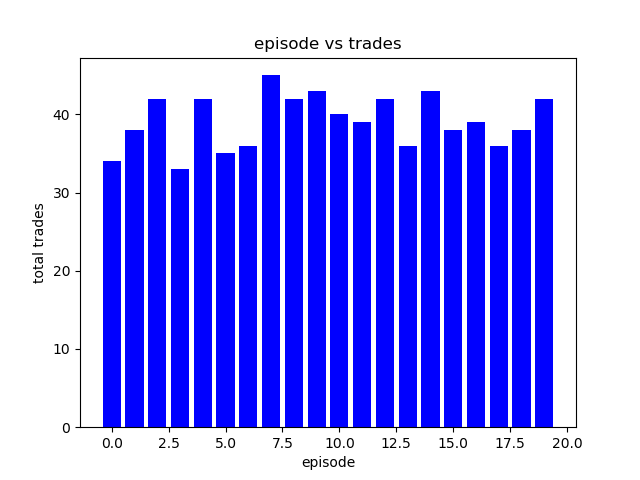
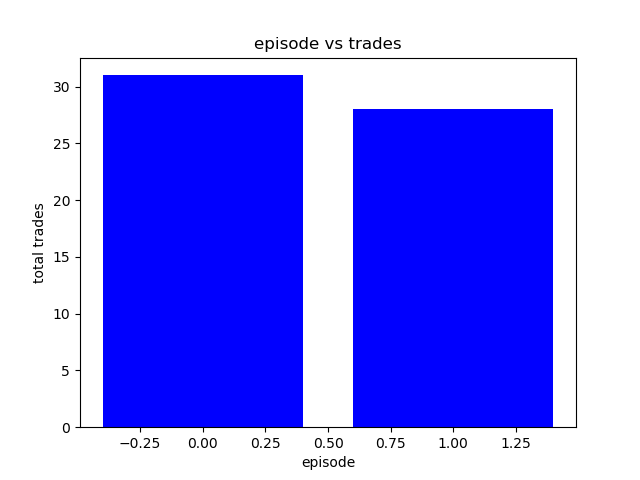
fixed test_gen file to match Close column name convention

diff --git a/rl_dqn.py b/rl_dqn.py
@@ -50,12 +50,12 @@ if __name__ == "__main__":
 
     import argparse
     parser = argparse.ArgumentParser()
-    parser.add_argument('--stock_name', '-s', type=str, default='^GSPC_2011')  # ^GSPC_2001_2010  ^GSPC_1970_2018  ^GSPC_2011
+    parser.add_argument('--stock_name', '-s', type=str, default='test_sinus')  # ^GSPC_2001_2010  ^GSPC_1970_2018  ^GSPC_2011
     parser.add_argument('--num_features', '-nf', type=int, default=20)  # (int) > 0
     parser.add_argument('--num_neurons', '-nn', type=int, default=64)  # # (int) > 0
     parser.add_argument('--episodes', '-e', type=int, default=20)  # (int) > 0 ,minimum 200 episodes for results. episode represent trade and learn on all data.
     parser.add_argument('--batch_size', '-bs', type=int, default=20)  # (int) > 0 size of a batched sampled from replay buffer for training
-    parser.add_argument('--random_action_decay', type=float, default=0.99995)  # (float) 0-1
+    parser.add_argument('--random_action_decay', type=float, default=0.99999)  # (float) 0-1
     parser.add_argument('--future_reward_importance', type=float, default=0.05)  # (float) 0-1 aka decay or discount rate, determines the importance of future rewards
     # If=0 agent will only learn to consider current rewards. if=1 it will make it strive for a long-term high reward.
 

diff --git a/test_gen.py b/test_gen.py
@@ -15,7 +15,7 @@ plt.plot(xsin)
 plt.show()
 
 dummy_cols = pd.DataFrame(np.ones((len(xsin), 4)))
-test_df = dummy_cols.join(pd.DataFrame(xsin, columns=['Val']))
+test_df = dummy_cols.join(pd.DataFrame(xsin, columns=['Close']))
 test_df.to_csv(output_path+"test_sinus.csv", index=False)
 
 xrise = [i for i in np.linspace(100, 200, PER*RPT, endpoint=False)]
@@ -24,5 +24,5 @@ plt.plot(xrise)
 plt.show()
 
 dummy_cols = pd.DataFrame(np.ones((len(xrise), 4)))
-test_df = dummy_cols.join(pd.DataFrame(xrise, columns=['Val']))
+test_df = dummy_cols.join(pd.DataFrame(xrise, columns=['Close']))
 test_df.to_csv(output_path+"test_rise_only.csv", index=False)
